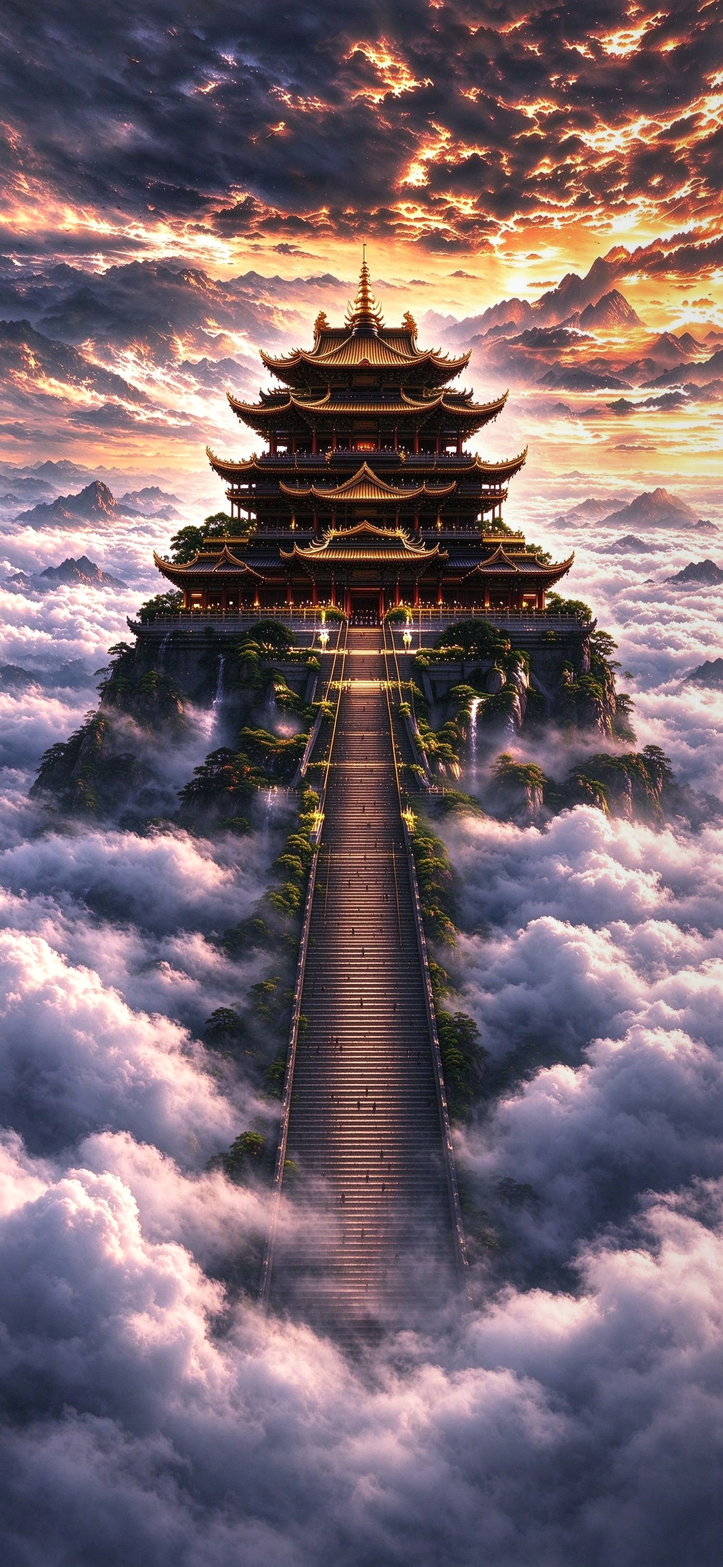
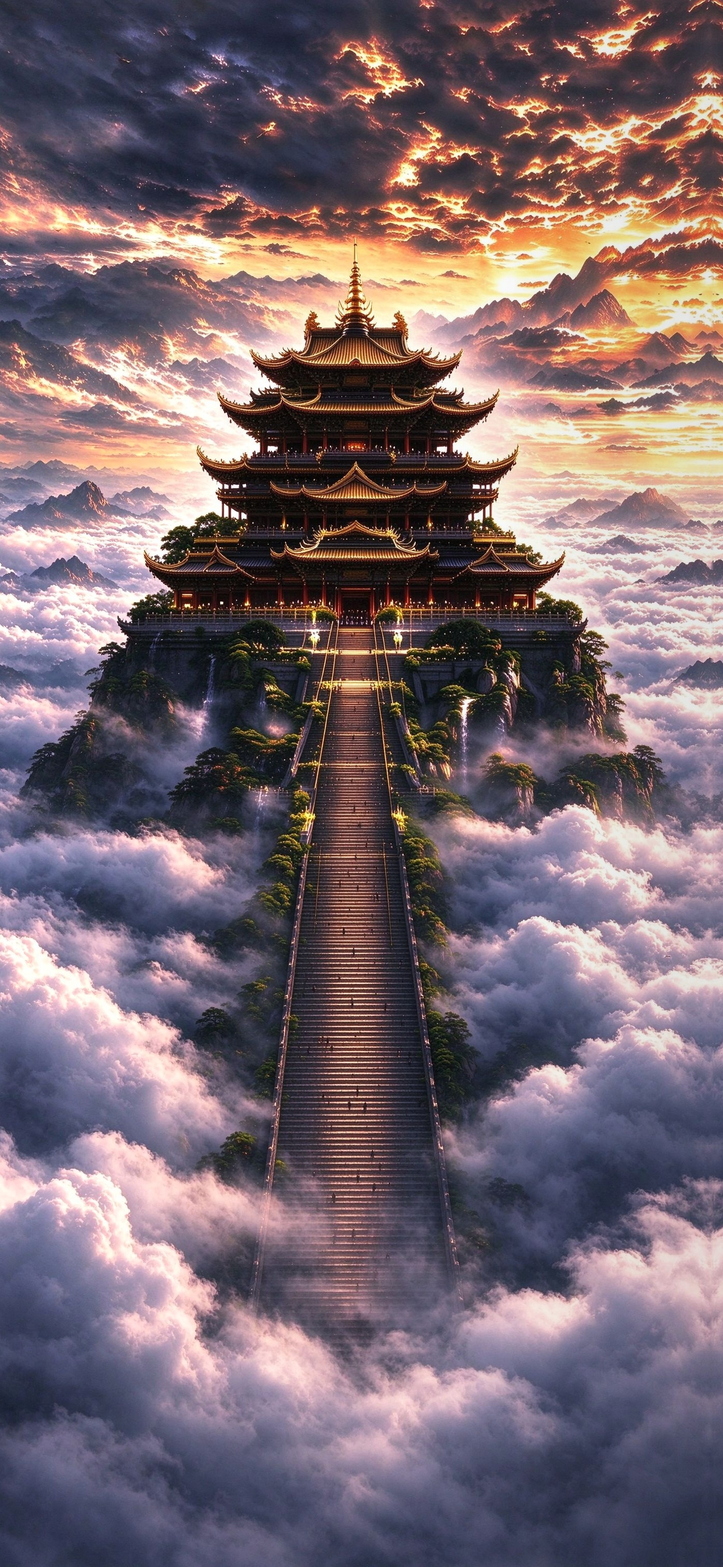
创建角色：背景楼阁左移18px精确居中(楼尖对齐中轴)，面板宽度对齐楼体宽度(16%→25% padding)，Logo微调防溢出

diff --git a/Jiuzhou/AndroidEntryView.swift b/Jiuzhou/AndroidEntryView.swift
@@ -447,7 +447,7 @@ struct AndroidEntryView: View {
                         if let path = Bundle.main.path(forResource: "charcreate_title", ofType: "png"),
                            let image = UIImage(contentsOfFile: path) {
                             Image(uiImage: image).resizable().scaledToFit()
-                                .frame(width: width * 0.50)
+                                .frame(width: width * 0.46)
                         } else {
                             Text("创建你的角色").font(.system(size: 21, weight: .bold))
                                 .foregroundStyle(Color(red: 235/255, green: 205/255, blue: 140/255))
@@ -487,7 +487,7 @@ struct AndroidEntryView: View {
                 .padding(14)
                 .background(RoundedRectangle(cornerRadius: 16).fill(Color(red: 25/255, green: 18/255, blue: 12/255).opacity(0.92)))
                 .overlay(RoundedRectangle(cornerRadius: 16).strokeBorder(Color(red: 210/255, green: 175/255, blue: 100/255).opacity(0.65), lineWidth: 1.2))
-                .padding(.horizontal, width * 0.16)
+                .padding(.horizontal, width * 0.25)
 
                 Spacer(minLength: height * 0.06)
             }
